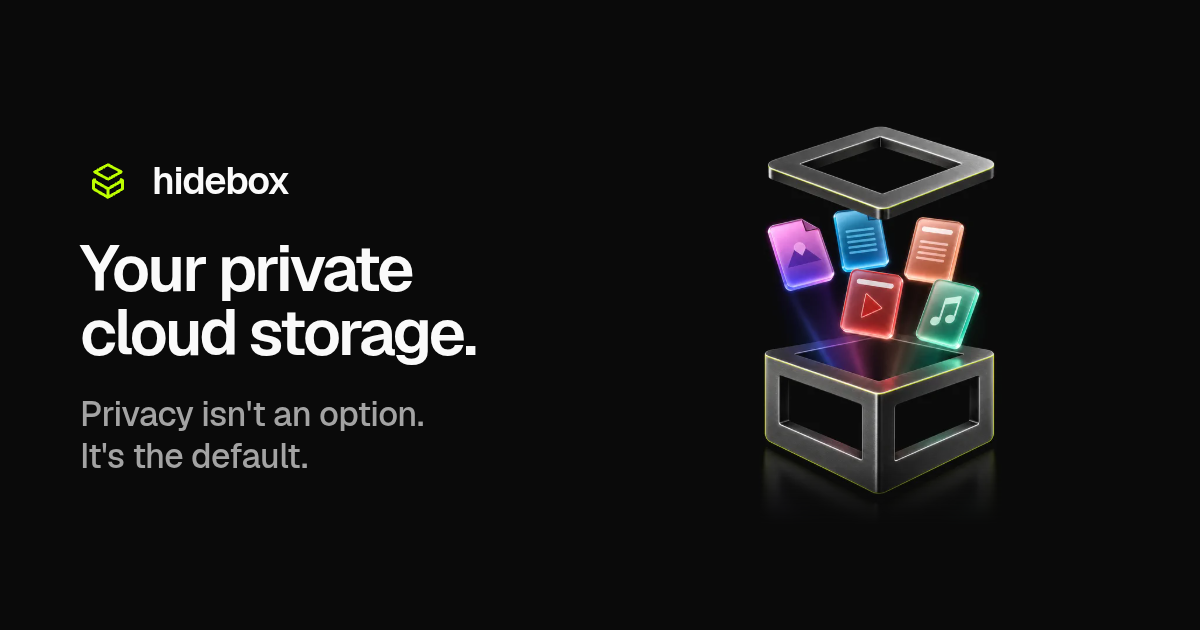
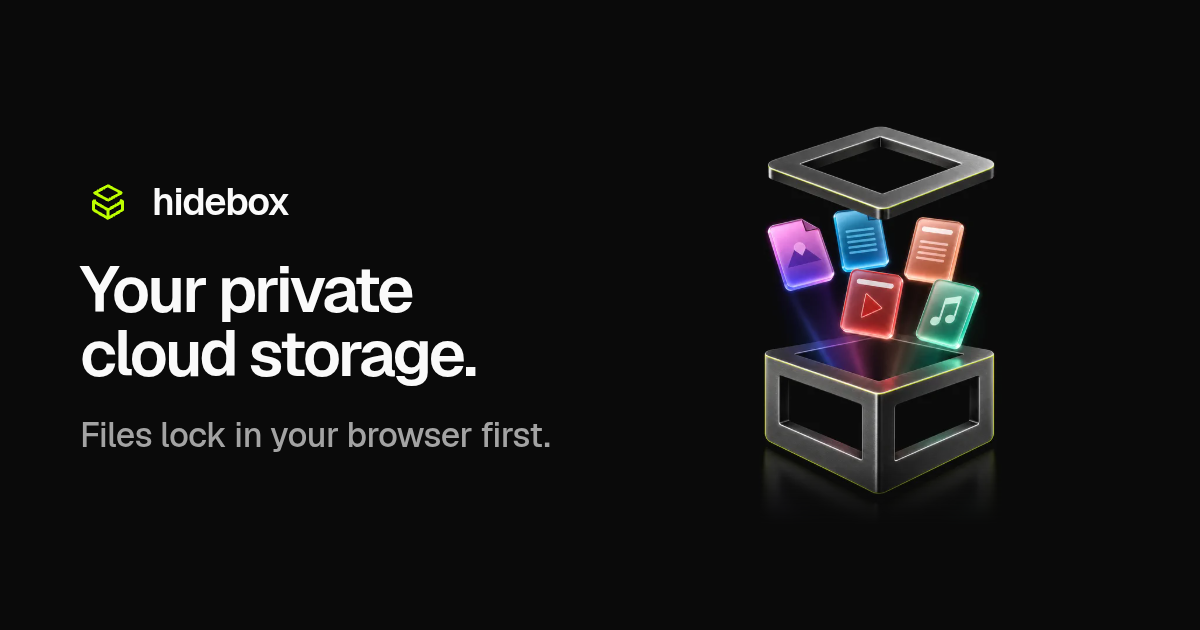
Home copy: the headline's second line is "Files lock in your browser first." and each key statement is said once
The tagline "Privacy isn't an option. It's the default." was the not-X-it's-Y tic; it leaves the h1, the share card
(og.png re-rendered, its alt on every page), the drive page's metas and the film's end card. On the home: the lede
keeps only the rules line; the comparison's intro and its repeated lock sentence go (the cells answer "In your
browser.", "Yes, by default.", "Yes, on the Tari chain."); "Here is what each one can see." goes; the Pay to open row
no longer repeats the chain's hidden amount; the closing and the footer no longer repeat "No email, no password";
the What's tTARI? box on / and /how drops its copy of the testnet line, which the footer keeps on every page. The h2s
lose their stray periods. DESIGN.md gains the Say It Once rule beside the one-sentence-a-line rule. The registry
records the new sentences (C32, C26, C42). V-01 no longer asks /v2 for the home's words: the preview keeps its own.

Changed region(s): [[0.0617, 0.3921, 0.4008, 0.6333], [0.0617, 0.6333, 0.4625, 0.754], [0.0617, 0.2714, 0.2467, 0.3619]]

diff --git a/web/site/pages/index.html b/web/site/pages/index.html
@@ -5,17 +5,17 @@
 <meta charset="utf-8">
 <meta name="viewport" content="width=device-width, initial-scale=1, viewport-fit=cover">
 <title>{{BRAND}}: your private drive</title>
-<meta name="description" content="Your private cloud storage. Files lock in this browser before upload. You pick how each one opens: once, with a word, or for Tari.">
+<meta name="description" content="Your private cloud storage. Files lock in your browser first. You pick how each file opens: once, with a word, or for Tari.">
 <link rel="canonical" href="{{ORIGIN}}/">
 <meta property="og:type" content="website">
 <meta property="og:site_name" content="{{BRAND}}">
 <meta property="og:title" content="Your private cloud storage.">
-<meta property="og:description" content="Privacy isn't an option. It's the default. Files lock in this browser before upload.">
+<meta property="og:description" content="Files lock in your browser first. You pick how each file opens: once, with a word, or for Tari.">
 <meta property="og:url" content="{{ORIGIN}}/">
 <meta property="og:image" content="{{ORIGIN}}/og.png">
 <meta property="og:image:width" content="1200">
 <meta property="og:image:height" content="630">
-<meta property="og:image:alt" content="{{BRAND}}: an open box, files rising out of it in its light. Your private cloud storage. Privacy isn't an option. It's the default.">
+<meta property="og:image:alt" content="{{BRAND}}: an open box, files rising out of it in its light. Your private cloud storage. Files lock in your browser first.">
 <meta name="twitter:card" content="summary_large_image">
 <meta name="theme-color" content="#FFFFFF" media="(prefers-color-scheme: light)">
 <meta name="theme-color" content="#0A0A0A" media="(prefers-color-scheme: dark)">
@@ -52,8 +52,8 @@
   <section class="hero" aria-labelledby="hero-h">
     <div class="wrap v2-hero">
       <div class="v2-hero-copy">
-        <h1 id="hero-h">Your private cloud storage. <span class="h1-2">Privacy isn't an option. <br>It's the default.</span></h1>
-        <p class="lede">Files lock in this browser before upload. <br>You pick how each one opens: once, with a word, or for Tari™.</p>
+        <h1 id="hero-h">Your private cloud storage. <span class="h1-2">Files lock in your browser first.</span></h1>
+        <p class="lede">You pick how each file opens: once, with a word, or for Tari™.</p>
         <div class="cta-row">
           <a class="btn-xl cta-make" href="/drive?make" data-testid="home-make">Open your drive<svg class="icon go" aria-hidden="true" focusable="false"><use href="/shared/ui/icons.svg#i-arrow-right"/></svg></a>
           <a class="btn-xl cta-open" href="/drive?open" data-testid="home-open">Open your drive<svg class="icon go" aria-hidden="true" focusable="false"><use href="/shared/ui/icons.svg#i-arrow-right"/></svg></a>
@@ -106,7 +106,7 @@
     <div class="wrap split">
       <div>
         <div class="sec-head">
-          <h2 id="ways-h">Share it your way.</h2>
+          <h2 id="ways-h">Share it your way</h2>
           <p>Each file or folder gets its own rule. <br>You can stop a link any time.</p>
         </div>
         <dl class="rule-groups">
@@ -136,7 +136,6 @@
       <div class="v2-lead">
         <div class="sec-head">
           <h2 id="diff-h">What's different from a usual drive?</h2>
-        <p>Your files lock here, in your browser. <br>A usual drive locks them on its own servers, with its own key.</p>
         </div>
         <div class="stage stage-c is-still" aria-hidden="true">
           <picture>
@@ -149,12 +148,12 @@
       <table class="compare">
         <thead><tr><th scope="col"><span class="sr-only">Question</span></th><th scope="col" class="us"><span class="us-name"><span class="wm-tile" aria-hidden="true"><svg class="icon" aria-hidden="true" focusable="false"><use href="/shared/ui/icons.svg#i-hidebox"/></svg></span>{{BRAND}}</span></th><th scope="col">A popular cloud drive</th></tr></thead>
         <tbody>
-          <tr><th scope="row">Where your files get locked</th><td class="us" data-label="{{BRAND}}"><svg class="icon" aria-hidden="true" focusable="false"><use href="/shared/ui/icons.svg#i-check"/></svg>Files lock in this browser before upload.</td><td data-label="A popular cloud drive">On their servers</td></tr>
+          <tr><th scope="row">Where your files get locked</th><td class="us" data-label="{{BRAND}}"><svg class="icon" aria-hidden="true" focusable="false"><use href="/shared/ui/icons.svg#i-check"/></svg>In your browser.</td><td data-label="A popular cloud drive">On their servers</td></tr>
           <tr><th scope="row">What the server gets</th><td class="us" data-label="{{BRAND}}"><svg class="icon" aria-hidden="true" focusable="false"><use href="/shared/ui/icons.svg#i-check"/></svg>Our server gets scrambled noise. <br>Never the key.</td><td data-label="A popular cloud drive">Your files and their key</td></tr>
           <tr><th scope="row">Your file names</th><td class="us" data-label="{{BRAND}}"><svg class="icon" aria-hidden="true" focusable="false"><use href="/shared/ui/icons.svg#i-check"/></svg>Search runs in this browser. <br>Our server can't read your file names.</td><td data-label="A popular cloud drive">The company can read them</td></tr>
-          <tr><th scope="row">A link that opens once</th><td class="us" data-label="{{BRAND}}"><svg class="icon" aria-hidden="true" focusable="false"><use href="/shared/ui/icons.svg#i-check"/></svg>It opens one time. <br>Then the link ends.</td><td data-label="A popular cloud drive">Not usually. <br>A link works until you turn it off.</td></tr>
+          <tr><th scope="row">A link that opens once</th><td class="us" data-label="{{BRAND}}"><svg class="icon" aria-hidden="true" focusable="false"><use href="/shared/ui/icons.svg#i-check"/></svg>Yes, by default.</td><td data-label="A popular cloud drive">Not usually. <br>A link works until you turn it off.</td></tr>
           <tr data-when="pay_to_open=on" hidden><th scope="row">Get paid to open it</th><td class="us" data-label="{{BRAND}}"><svg class="icon" aria-hidden="true" focusable="false"><use href="/shared/ui/icons.svg#i-check"/></svg>Pay to open, in <a href="#ttari">tTARI</a>.</td><td data-label="A popular cloud drive">No</td></tr>
-          <tr><th scope="row">A public record when a file leaves</th><td class="us" data-label="{{BRAND}}"><svg class="icon" aria-hidden="true" focusable="false"><use href="/shared/ui/icons.svg#i-check"/></svg>We write that on the Tari chain.</td><td data-label="A popular cloud drive">No</td></tr>
+          <tr><th scope="row">A public record when a file leaves</th><td class="us" data-label="{{BRAND}}"><svg class="icon" aria-hidden="true" focusable="false"><use href="/shared/ui/icons.svg#i-check"/></svg>Yes, on the Tari chain.</td><td data-label="A popular cloud drive">No</td></tr>
           <tr><th scope="row">If you lose access</th><td class="us" data-label="{{BRAND}}"><svg class="icon" aria-hidden="true" focusable="false"><use href="/shared/ui/icons.svg#i-info"/></svg>Save your key. <br>If this browser forgets it, nobody can let you back in, not even us.</td><td data-label="A popular cloud drive">Reset it with your email</td></tr>
         </tbody>
       </table>
@@ -166,7 +165,7 @@
     <div class="wrap">
       <div class="sec-head">
         <h2 id="who-h">Who sees what</h2>
-        <p>Four sides of every file. <br>Here is what each one can see.</p>
+        <p>Four sides of every file.</p>
       </div>
       <div class="v2-who">
         <div class="stage stage-b is-still" aria-hidden="true">
@@ -202,7 +201,7 @@
   <section class="sec alt" aria-labelledby="tari-h" id="tari">
     <div class="wrap v2-chain">
       <div class="sec-head">
-        <h2 id="tari-h">Tari does the private parts.</h2>
+        <h2 id="tari-h">Tari does the private parts</h2>
         <p>The chain shows a payment with a hidden amount and a hidden owner. <br>The fee is public.</p>
       </div>
       <div class="stage stage-d is-still" aria-hidden="true">
@@ -213,7 +212,7 @@
         </picture>
       </div>
       <ul class="chain-rows" role="list">
-        <li data-when="pay_to_open=on" hidden><svg class="icon" aria-hidden="true" focusable="false"><use href="/shared/ui/icons.svg#i-coins"/></svg><span>Pay to open: they pay your Tari address, then it opens. <br>The chain hides the amount and who got it. <br>The fee is public.</span></li>
+        <li data-when="pay_to_open=on" hidden><svg class="icon" aria-hidden="true" focusable="false"><use href="/shared/ui/icons.svg#i-coins"/></svg><span>Pay to open: they pay your Tari address, then it opens.</span></li>
         <li><svg class="icon" aria-hidden="true" focusable="false"><use href="/shared/ui/icons.svg#i-send"/></svg><span>Send by Tari: the key rides inside a payment to their address. <br>Only they can open it.</span></li>
         <li><svg class="icon" aria-hidden="true" focusable="false"><use href="/shared/ui/icons.svg#i-receipt-text"/></svg><span>When a file leaves your drive, we write that on the Tari chain, for anyone to check.</span></li>
       </ul>
@@ -225,7 +224,6 @@
           <li data-when="test_pay=on" hidden><svg class="icon" aria-hidden="true" focusable="false"><use href="/shared/ui/icons.svg#i-coins"/></svg><span>On a pay page, tap Pay with test money. <br>Our demo wallet pays the owner for you, with test money.</span></li>
           <li><svg class="icon" aria-hidden="true" focusable="false"><use href="/shared/ui/icons.svg#i-key-round"/></svg><span>Judging? <br><a href="/judges#pass">Get a judge pass</a>.</span></li>
         </ul>
-        <!--#include status-line-->
       </aside>
     </div>
   </section>
@@ -242,8 +240,8 @@
         </picture>
       </div>
       <!-- /CLOSING MEDIA -->
-      <h2 id="end-h">Make your drive.</h2>
-      <p>One tap, and it's yours. <br>No email, no password.</p>
+      <h2 id="end-h">Make your drive</h2>
+      <p>One tap, and it's yours.</p>
       <div class="cta-row">
         <a class="btn-xl cta-make" href="/drive?make">Open your drive<svg class="icon go" aria-hidden="true" focusable="false"><use href="/shared/ui/icons.svg#i-arrow-right"/></svg></a>
         <a class="btn-xl cta-open" href="/drive?open">Open your drive<svg class="icon go" aria-hidden="true" focusable="false"><use href="/shared/ui/icons.svg#i-arrow-right"/></svg></a>

diff --git a/web/app/app.html b/web/app/app.html
@@ -7,15 +7,15 @@
 <meta name="robots" content="noindex, nofollow">
 <meta name="referrer" content="no-referrer">
 <title>{{BRAND}}</title>
-<meta name="description" content="Your private cloud storage. Privacy isn't an option. It's the default. Files lock in this browser before upload.">
+<meta name="description" content="Your private cloud storage. Files lock in your browser first. You pick how each file opens: once, with a word, or for Tari.">
 <meta property="og:type" content="website">
 <meta property="og:site_name" content="{{BRAND}}">
 <meta property="og:title" content="Your private cloud storage.">
-<meta property="og:description" content="Privacy isn't an option. It's the default. Files lock in this browser before upload.">
+<meta property="og:description" content="Files lock in your browser first. You pick how each file opens: once, with a word, or for Tari.">
 <meta property="og:image" content="{{ORIGIN}}/og.png">
 <meta property="og:image:width" content="1200">
 <meta property="og:image:height" content="630">
-<meta property="og:image:alt" content="{{BRAND}}: an open box, files rising out of it in its light. Your private cloud storage. Privacy isn't an option. It's the default.">
+<meta property="og:image:alt" content="{{BRAND}}: an open box, files rising out of it in its light. Your private cloud storage. Files lock in your browser first.">
 <meta name="twitter:card" content="summary_large_image">
 <meta name="theme-color" content="#FFFFFF" media="(prefers-color-scheme: light)">
 <meta name="theme-color" content="#0A0A0A" media="(prefers-color-scheme: dark)">

diff --git a/web/site/pages/how.html b/web/site/pages/how.html
@@ -15,7 +15,7 @@
 <meta property="og:image" content="{{ORIGIN}}/og.png">
 <meta property="og:image:width" content="1200">
 <meta property="og:image:height" content="630">
-<meta property="og:image:alt" content="{{BRAND}}: an open box, files rising out of it in its light. Your private cloud storage. Privacy isn't an option. It's the default.">
+<meta property="og:image:alt" content="{{BRAND}}: an open box, files rising out of it in its light. Your private cloud storage. Files lock in your browser first.">
 <meta name="twitter:card" content="summary_large_image">
 <meta name="theme-color" content="#FFFFFF" media="(prefers-color-scheme: light)">
 <meta name="theme-color" content="#0A0A0A" media="(prefers-color-scheme: dark)">
@@ -112,7 +112,6 @@
           <li data-when="test_pay=on" hidden><svg class="icon" aria-hidden="true" focusable="false"><use href="/shared/ui/icons.svg#i-coins"/></svg><span>On a pay page, tap Pay with test money. <br>Our demo wallet pays the owner for you, with test money.</span></li>
           <li><svg class="icon" aria-hidden="true" focusable="false"><use href="/shared/ui/icons.svg#i-key-round"/></svg><span>Judging? <br><a href="/judges#pass">Get a judge pass</a>.</span></li>
         </ul>
-        <!--#include status-line-->
       </aside>
     </div>
 

diff --git a/web/shared/partials/footer.html b/web/shared/partials/footer.html
@@ -8,7 +8,7 @@
       <a href="/fine-print">The fine print</a>
       <a href="/drive">My drive</a>
     </nav>
-    <p class="foot-line">Built on the Tari™ Ootle testnet. <br>Free, with no sign-up.</p>
+    <p class="foot-line">Built on the Tari™ Ootle testnet. <br>Free to use.</p>
     <p class="status-line"><span data-phase-show="pre">Esmeralda testnet: tTARI is test money, worth nothing. <br>Ootle mainnet: <time datetime="2026-11-11" data-v="mainnet_date">Nov 11, 2026</time>.</span><span data-phase-show="mainnet" hidden>Esmeralda testnet: tTARI is test money, worth nothing. <br>The Ootle mainnet is live; {{BRAND}} stays on the testnet until our code is reviewed.</span></p>
     <p class="foot-legal"><b class="brand">{{BRAND}}</b> is an independent open-source project. <br>It is not affiliated with, endorsed by, or sponsored by Tari Labs, the Tari Council, or the Tari project. <br>“Tari” is a trademark of Tari Labs. <br>All rights reserved.</p>
   </div>

diff --git a/web/site/pages/404.html b/web/site/pages/404.html
@@ -15,7 +15,7 @@
 <meta property="og:image" content="{{ORIGIN}}/og.png">
 <meta property="og:image:width" content="1200">
 <meta property="og:image:height" content="630">
-<meta property="og:image:alt" content="{{BRAND}}: an open box, files rising out of it in its light. Your private cloud storage. Privacy isn't an option. It's the default.">
+<meta property="og:image:alt" content="{{BRAND}}: an open box, files rising out of it in its light. Your private cloud storage. Files lock in your browser first.">
 <meta name="twitter:card" content="summary_large_image">
 <meta name="theme-color" content="#FFFFFF" media="(prefers-color-scheme: light)">
 <meta name="theme-color" content="#0A0A0A" media="(prefers-color-scheme: dark)">

diff --git a/web/site/pages/fine-print.html b/web/site/pages/fine-print.html
@@ -15,7 +15,7 @@
 <meta property="og:image" content="{{ORIGIN}}/og.png">
 <meta property="og:image:width" content="1200">
 <meta property="og:image:height" content="630">
-<meta property="og:image:alt" content="{{BRAND}}: an open box, files rising out of it in its light. Your private cloud storage. Privacy isn't an option. It's the default.">
+<meta property="og:image:alt" content="{{BRAND}}: an open box, files rising out of it in its light. Your private cloud storage. Files lock in your browser first.">
 <meta name="twitter:card" content="summary_large_image">
 <meta name="theme-color" content="#FFFFFF" media="(prefers-color-scheme: light)">
 <meta name="theme-color" content="#0A0A0A" media="(prefers-color-scheme: dark)">

diff --git a/web/site/pages/judges.html b/web/site/pages/judges.html
@@ -15,7 +15,7 @@
 <meta property="og:image" content="{{ORIGIN}}/og.png">
 <meta property="og:image:width" content="1200">
 <meta property="og:image:height" content="630">
-<meta property="og:image:alt" content="{{BRAND}}: an open box, files rising out of it in its light. Your private cloud storage. Privacy isn't an option. It's the default.">
+<meta property="og:image:alt" content="{{BRAND}}: an open box, files rising out of it in its light. Your private cloud storage. Files lock in your browser first.">
 <meta name="twitter:card" content="summary_large_image">
 <meta name="theme-color" content="#FFFFFF" media="(prefers-color-scheme: light)">
 <meta name="theme-color" content="#0A0A0A" media="(prefers-color-scheme: dark)">

diff --git a/web/site/pages/made.html b/web/site/pages/made.html
@@ -15,7 +15,7 @@
 <meta property="og:image" content="{{ORIGIN}}/og.png">
 <meta property="og:image:width" content="1200">
 <meta property="og:image:height" content="630">
-<meta property="og:image:alt" content="{{BRAND}}: an open box, files rising out of it in its light. Your private cloud storage. Privacy isn't an option. It's the default.">
+<meta property="og:image:alt" content="{{BRAND}}: an open box, files rising out of it in its light. Your private cloud storage. Files lock in your browser first.">
 <meta name="twitter:card" content="summary_large_image">
 <meta name="theme-color" content="#FFFFFF" media="(prefers-color-scheme: light)">
 <meta name="theme-color" content="#0A0A0A" media="(prefers-color-scheme: dark)">

diff --git a/web/site/pages/v2.html b/web/site/pages/v2.html
@@ -16,7 +16,7 @@
 <meta property="og:image" content="{{ORIGIN}}/og.png">
 <meta property="og:image:width" content="1200">
 <meta property="og:image:height" content="630">
-<meta property="og:image:alt" content="{{BRAND}}: an open box, files rising out of it in its light. Your private cloud storage. Privacy isn't an option. It's the default.">
+<meta property="og:image:alt" content="{{BRAND}}: an open box, files rising out of it in its light. Your private cloud storage. Files lock in your browser first.">
 <meta name="twitter:card" content="summary_large_image">
 <meta name="theme-color" content="#0A0A0A">
 <link rel="icon" href="/favicon.svg" type="image/svg+xml">

diff --git a/web/site/og/og.html b/web/site/og/og.html
@@ -11,7 +11,7 @@
 <div class="copy">
   <div class="brandrow"><span class="tile mark"><svg class="i"><use href="#box"/></svg></span><span class="name">{{BRAND}}</span></div>
   <h1>Your private cloud storage.</h1>
-  <p class="tagline">Privacy isn't an option.<br>It's the default.</p>
+  <p class="tagline">Files lock in your browser first.</p>
 </div>
 <div class="still"><img src="../media/v3/hero-720.webp" alt="" width="720" height="720"></div>
 </body>

diff --git a/web/site/tests/static_checks.py b/web/site/tests/static_checks.py
@@ -843,7 +843,8 @@ WEBM_TYPE = 'video/webm; codecs="vp9"'
 
 def check_v2():
     """V-01, the files' half: /v2 is noindex, outside the JSON-LD graph, linked from no page, partial or static file,
-    and carries every visible string of the home (only its title differs, titles being unique); each <video data-clip>
+    and has the home's links, variants and labels (its words stay the ones it was made with: the copy pass,
+    docs/review/copy-1.md, changed the home's and left the preview's on purpose); each <video data-clip>
     is muted, autoplay, loop, playsinline, its sources waiting in data-src (WebM with its codec first, then MP4), the
     first with preload="metadata" and its poster, the rest preload="none" with data-poster and a lazy still for readers
     without JavaScript; every file they name exists, no other page names the media folder, and the budget holds."""
@@ -856,7 +857,6 @@ def check_v2():
         problems.append("pages/v2.html: no <meta name=\"robots\" content=\"noindex\">")
     if "application/ld+json" in text:
         problems.append("pages/v2.html: carries JSON-LD (the preview is no part of the graph)")
-    words = lambda doc: [w for w in (" ".join(t.split()) for t in doc.text) if w and w not in ("".join(doc.titles),)]   # noqa: E731
     # and the same links, buttons, variants and labels in the body (the Pause motion switch is v2's own)
     keys = ("href", "data-when", "hidden", "data-testid", "aria-label", "aria-labelledby", "id", "role")
     def marks(doc):
@@ -868,11 +868,6 @@ def check_v2():
         problems.append(f"pages/v2.html: its links, variants or labels differ from the home's: only in v2 {extra[:3]}, only on / {missing[:3]}")
     if not re.search(r'<button type="button" class="loops" data-loops aria-label="Pause motion" aria-pressed="false" hidden>', text):
         problems.append("pages/v2.html: no Pause motion switch (WCAG 2.2.2: the loops run longer than five seconds)")
-    if words(d) != words(home):
-        a, b = words(home), words(d)
-        first = next((i for i, (x, y) in enumerate(zip(a, b)) if x != y), min(len(a), len(b)))
-        problems.append(f"pages/v2.html: its words differ from the home's at {first}: "
-                        f"{a[first] if first < len(a) else None!r} / {b[first] if first < len(b) else None!r}")
     for f in [p for p in PAGES if p != v2] + PARTIALS + sorted((SITE / "static").rglob("*.txt")):
         body = f.read_text()
         if re.search(r'href="(\{\{ORIGIN\}\})?/v2[/"#?]', body) or "{{ORIGIN}}/v2" in body:
@@ -1088,5 +1083,5 @@ CHECKS = [("SPDX headers", check_spdx), ("no HTML/script sinks in JS", check_js_
           ("/how's loops: aria-hidden pictures, 4 to 7 s with a rest, the app's words, one Pause motion switch", check_how_loops),
           ("the four sides and What's tTARI? are the same on / and /how", check_shared_blocks),
           ("links to site pages and anchors land on something", check_internal_links),
-          ("V-01: /v2 is noindex and unlinked, keeps the home's words, its loops wait to be asked for, its budget", check_v2),
+          ("V-01: /v2 is noindex and unlinked, keeps the home's links and labels, its loops wait to be asked for, its budget", check_v2),
           ("V-02: the home's stills are sized and lazy, the hero's first; the open box is the favicon and the header's mark; no video", check_home_stills)]

diff --git a/tools/film.py b/tools/film.py
@@ -68,7 +68,7 @@ TEST = "Our demo wallet pays the owner for you, with test money."      # C33
 OPENS = "It opens on the phone."
 PAID = "Checked on the chain, not a wallet's word."                    # C11 short form
 CHAIN_SEES = "The chain shows a payment with a hidden amount and a hidden owner. The fee is public."   # C36
-TAGLINE = "Your private cloud storage. Privacy isn't an option. It's the default."   # the home's headline (site v4)
+TAGLINE = "Your private cloud storage. Files lock in your browser first."   # the home's headline (copy-1)
 # The home as served (the v3 design, docs/review/promote-v3.md): motion.js has started (html.mo, or no motion at all),
 # the hero's arrival has finished, and the drive slice has decoded if the camera sees it. The slice sits under the
 # hero's still: on the computer its top is on the first screen and decodes at load (motion.js decodes it once 30 % of it
